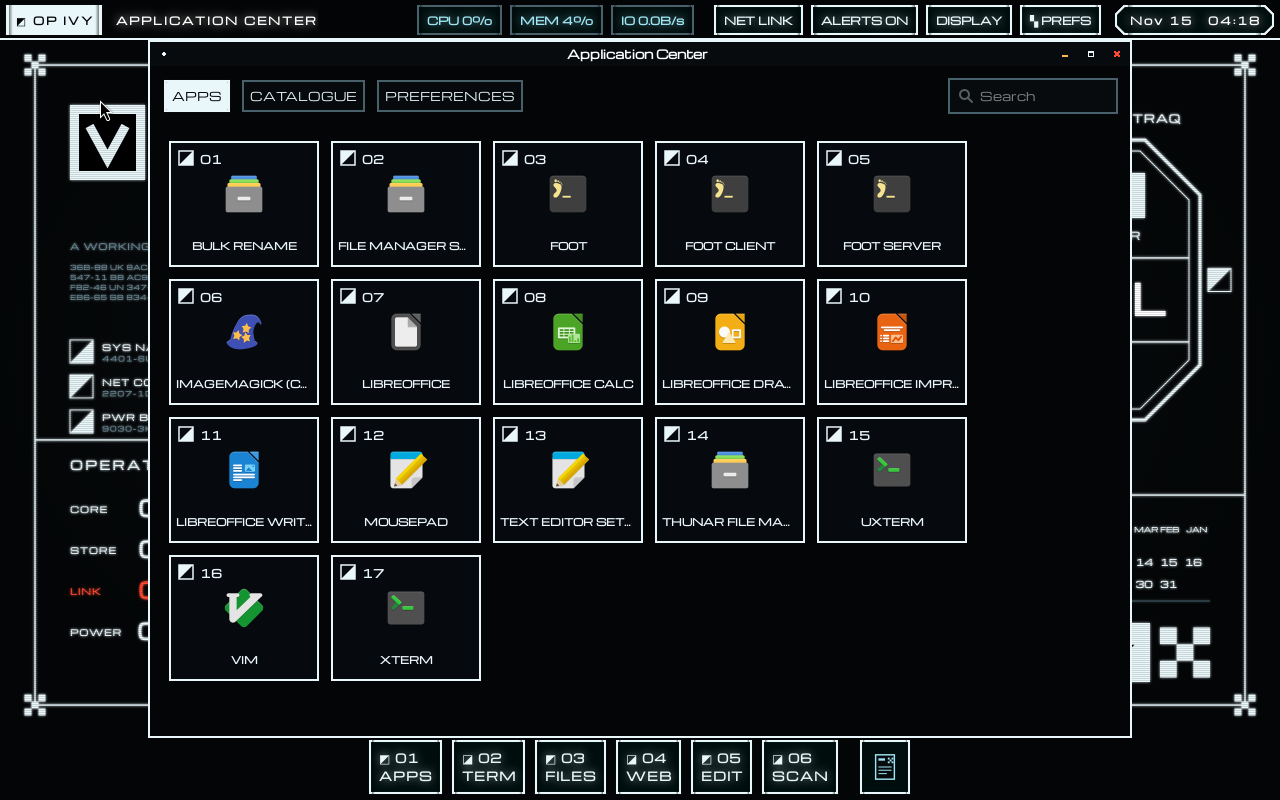
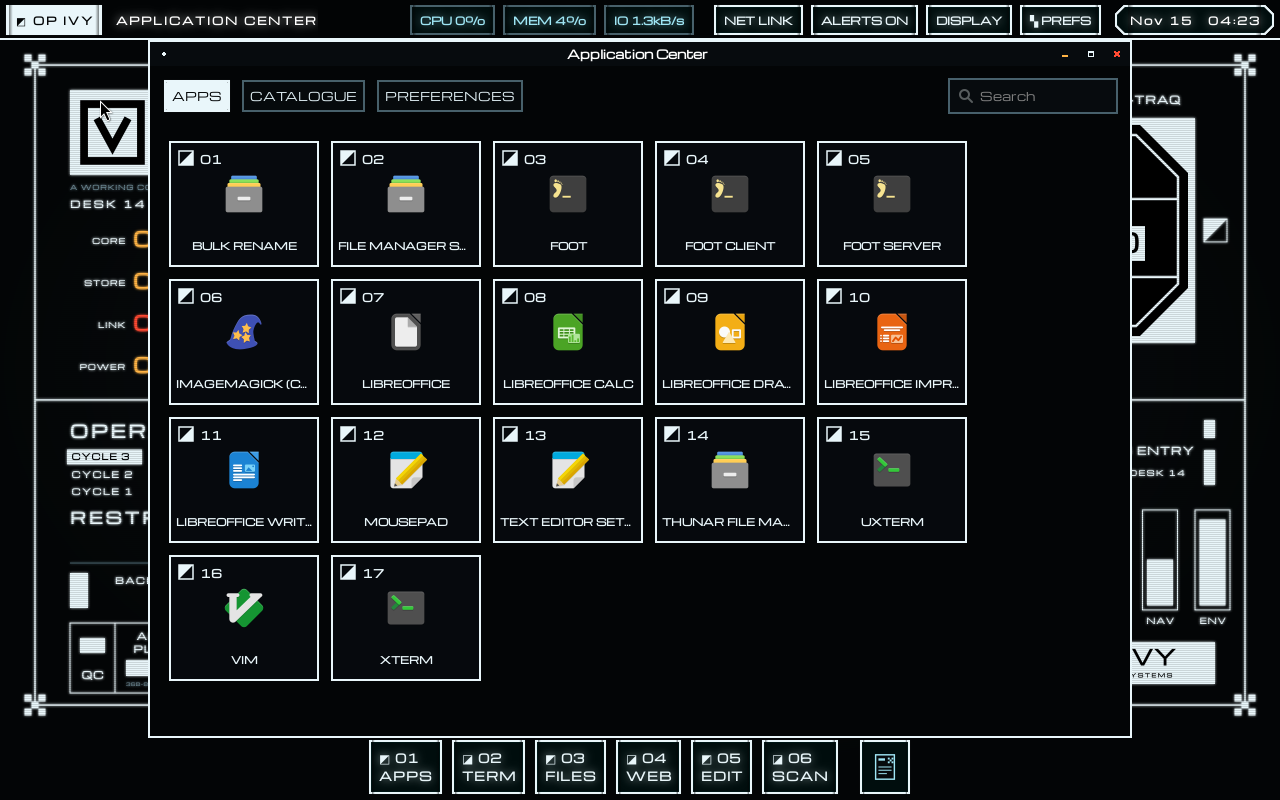
Op Ivy: lay the wallpaper out as four console screens
Each panel now follows one reference screen: a status board with a name
plate and numbered unit rows, a cycle log with month and day strips, an
eight-sided countdown frame, and a side list with numbered keys, a log
entry header and meters. The name plate carries the mark inside the bar.

Claude-Session: https://claude.ai/code/session_0143c5w2wKh7naW1WyjR1H7t

Changed region(s): [[0.0312, 0.0938, 0.125, 0.875], [0.875, 0.0938, 0.9688, 0.875], [0.3125, 0.0, 0.5312, 0.0625]]

diff --git a/opivy/README.md b/opivy/README.md
@@ -30,7 +30,7 @@ The other three themes, `rover`, `board` and `daylight`:
 | Menu bar | Square outlined blocks. The system button is a lit plate with dark lettering. The clock sits in an eight-sided frame. A block lights up when the pointer is on it. |
 | Dock | Numbered square keys, each with a split-square marker. `hudctl set dock_numbers no` gives plain labels. |
 | Application Center | A grid of numbered keys. Bright keys are installed apps; dim keys can be installed. |
-| Wallpaper | A generated console: name plate, status frame, unit list, bar meters, sequence strip. It is redrawn in the colours of whichever theme is active. |
+| Wallpaper | A generated console in four panels: a status board with numbered units, a cycle log with month and day strips, an eight-sided countdown frame, and a side list with numbered keys and meters. It is redrawn in the colours of whichever theme is active. |
 | Icons | Folders and files as square plates with the same markers. |
 | Windows | Square corners, a thin frame, no shadow. |
 | Themes | `station` (white on black, the default), `rover` (pale cyan on dark teal), `board` (amber on black), `daylight` (black on white). |
